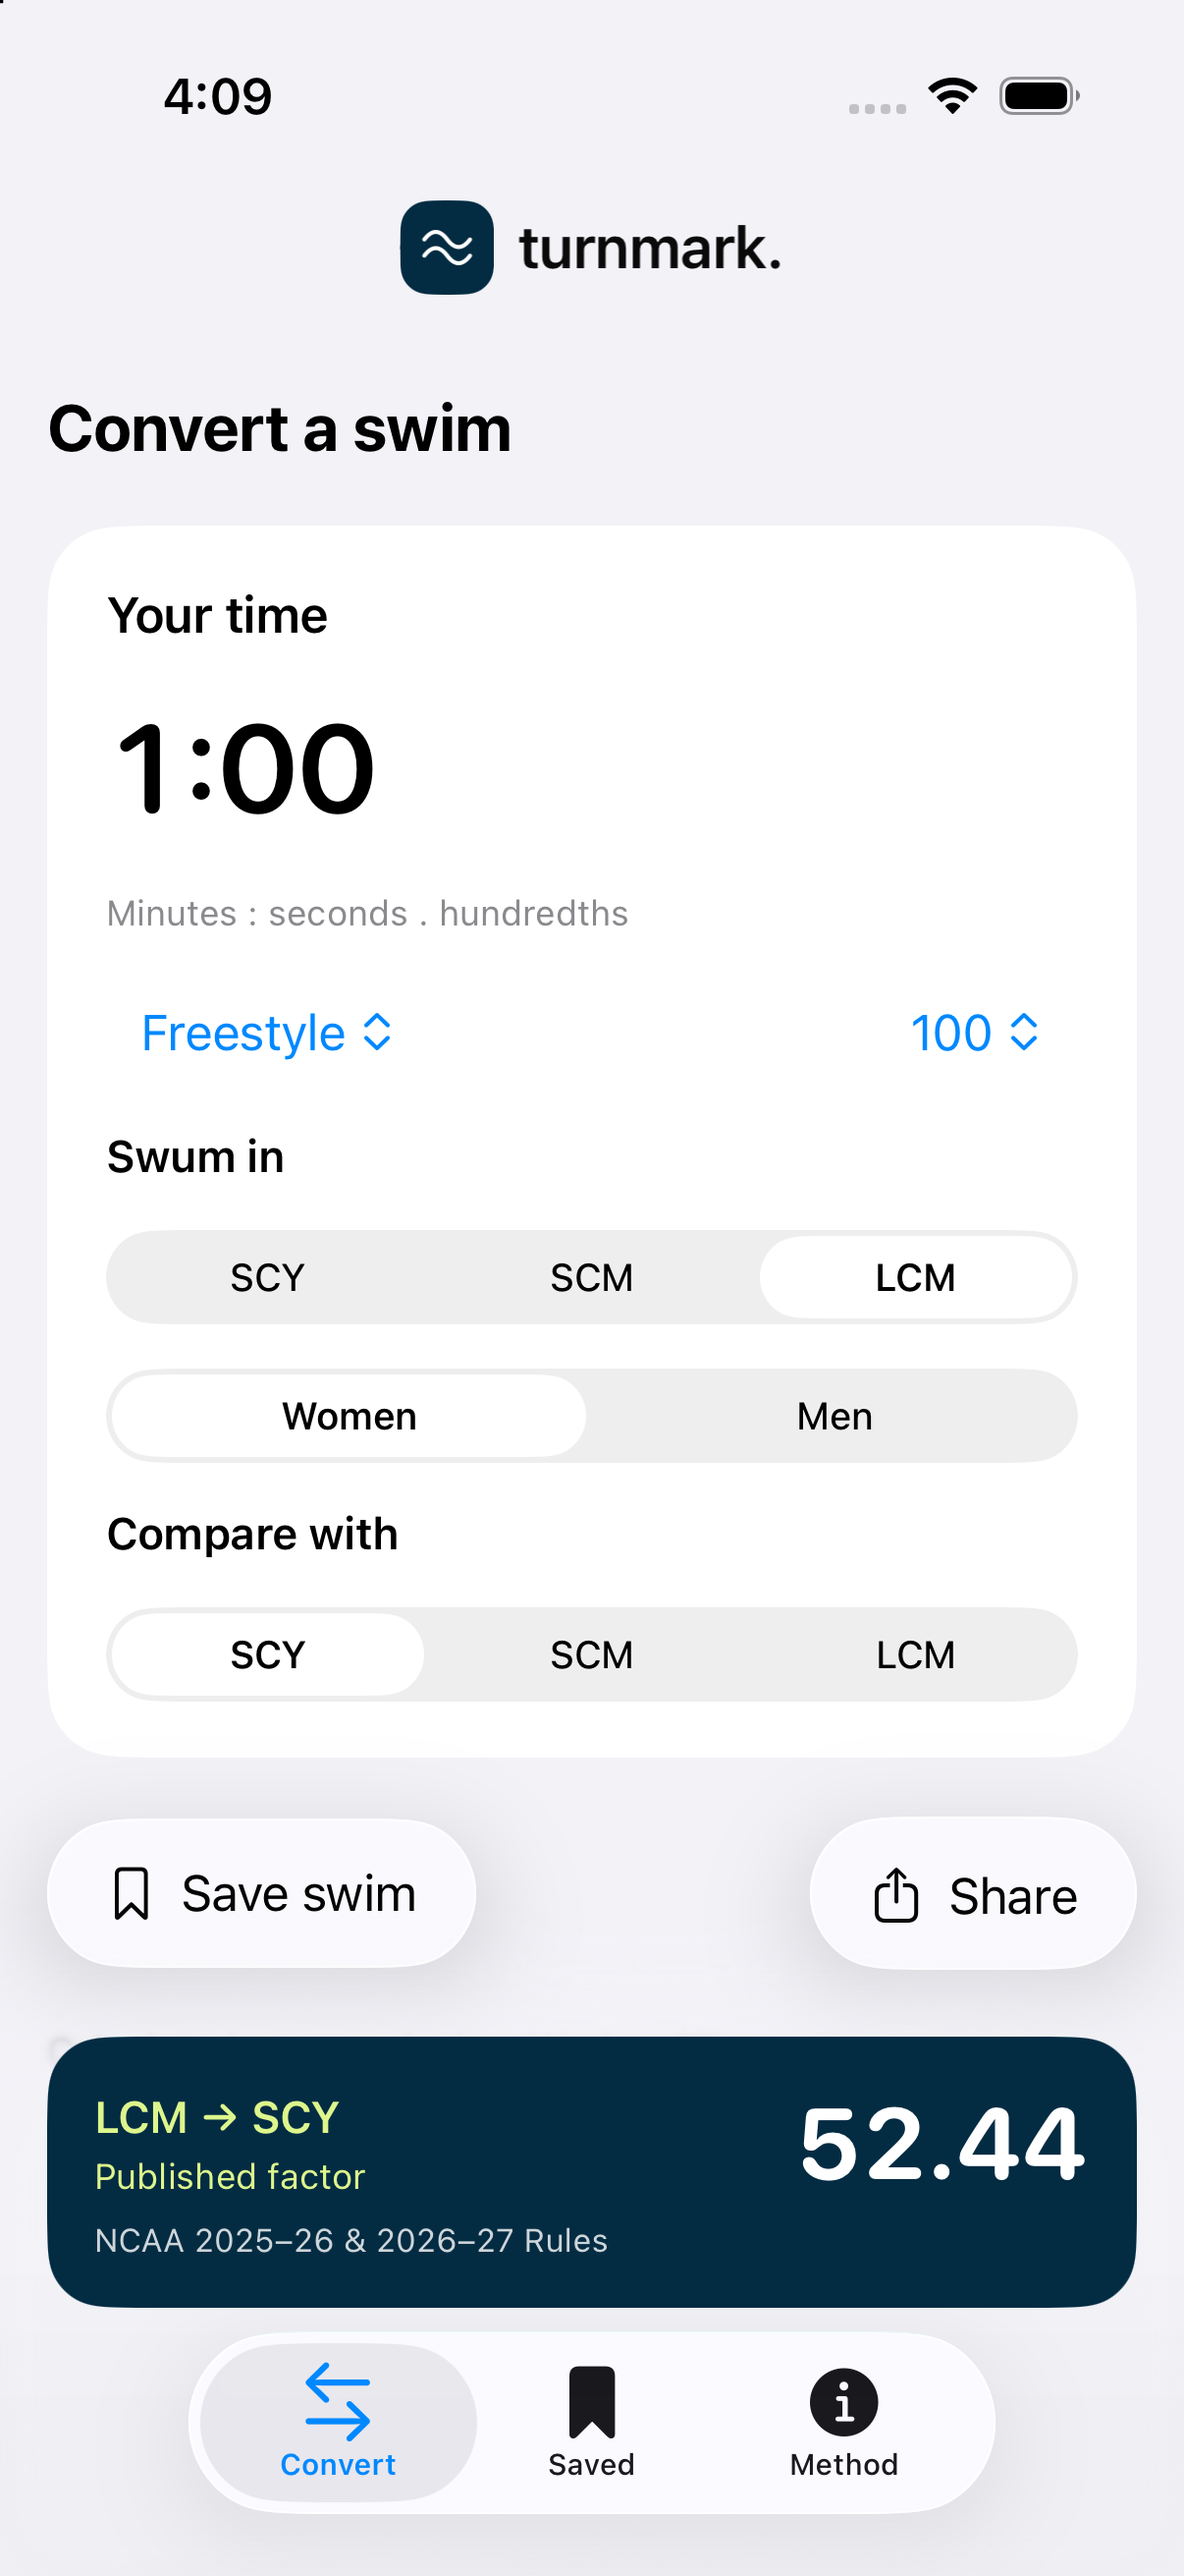
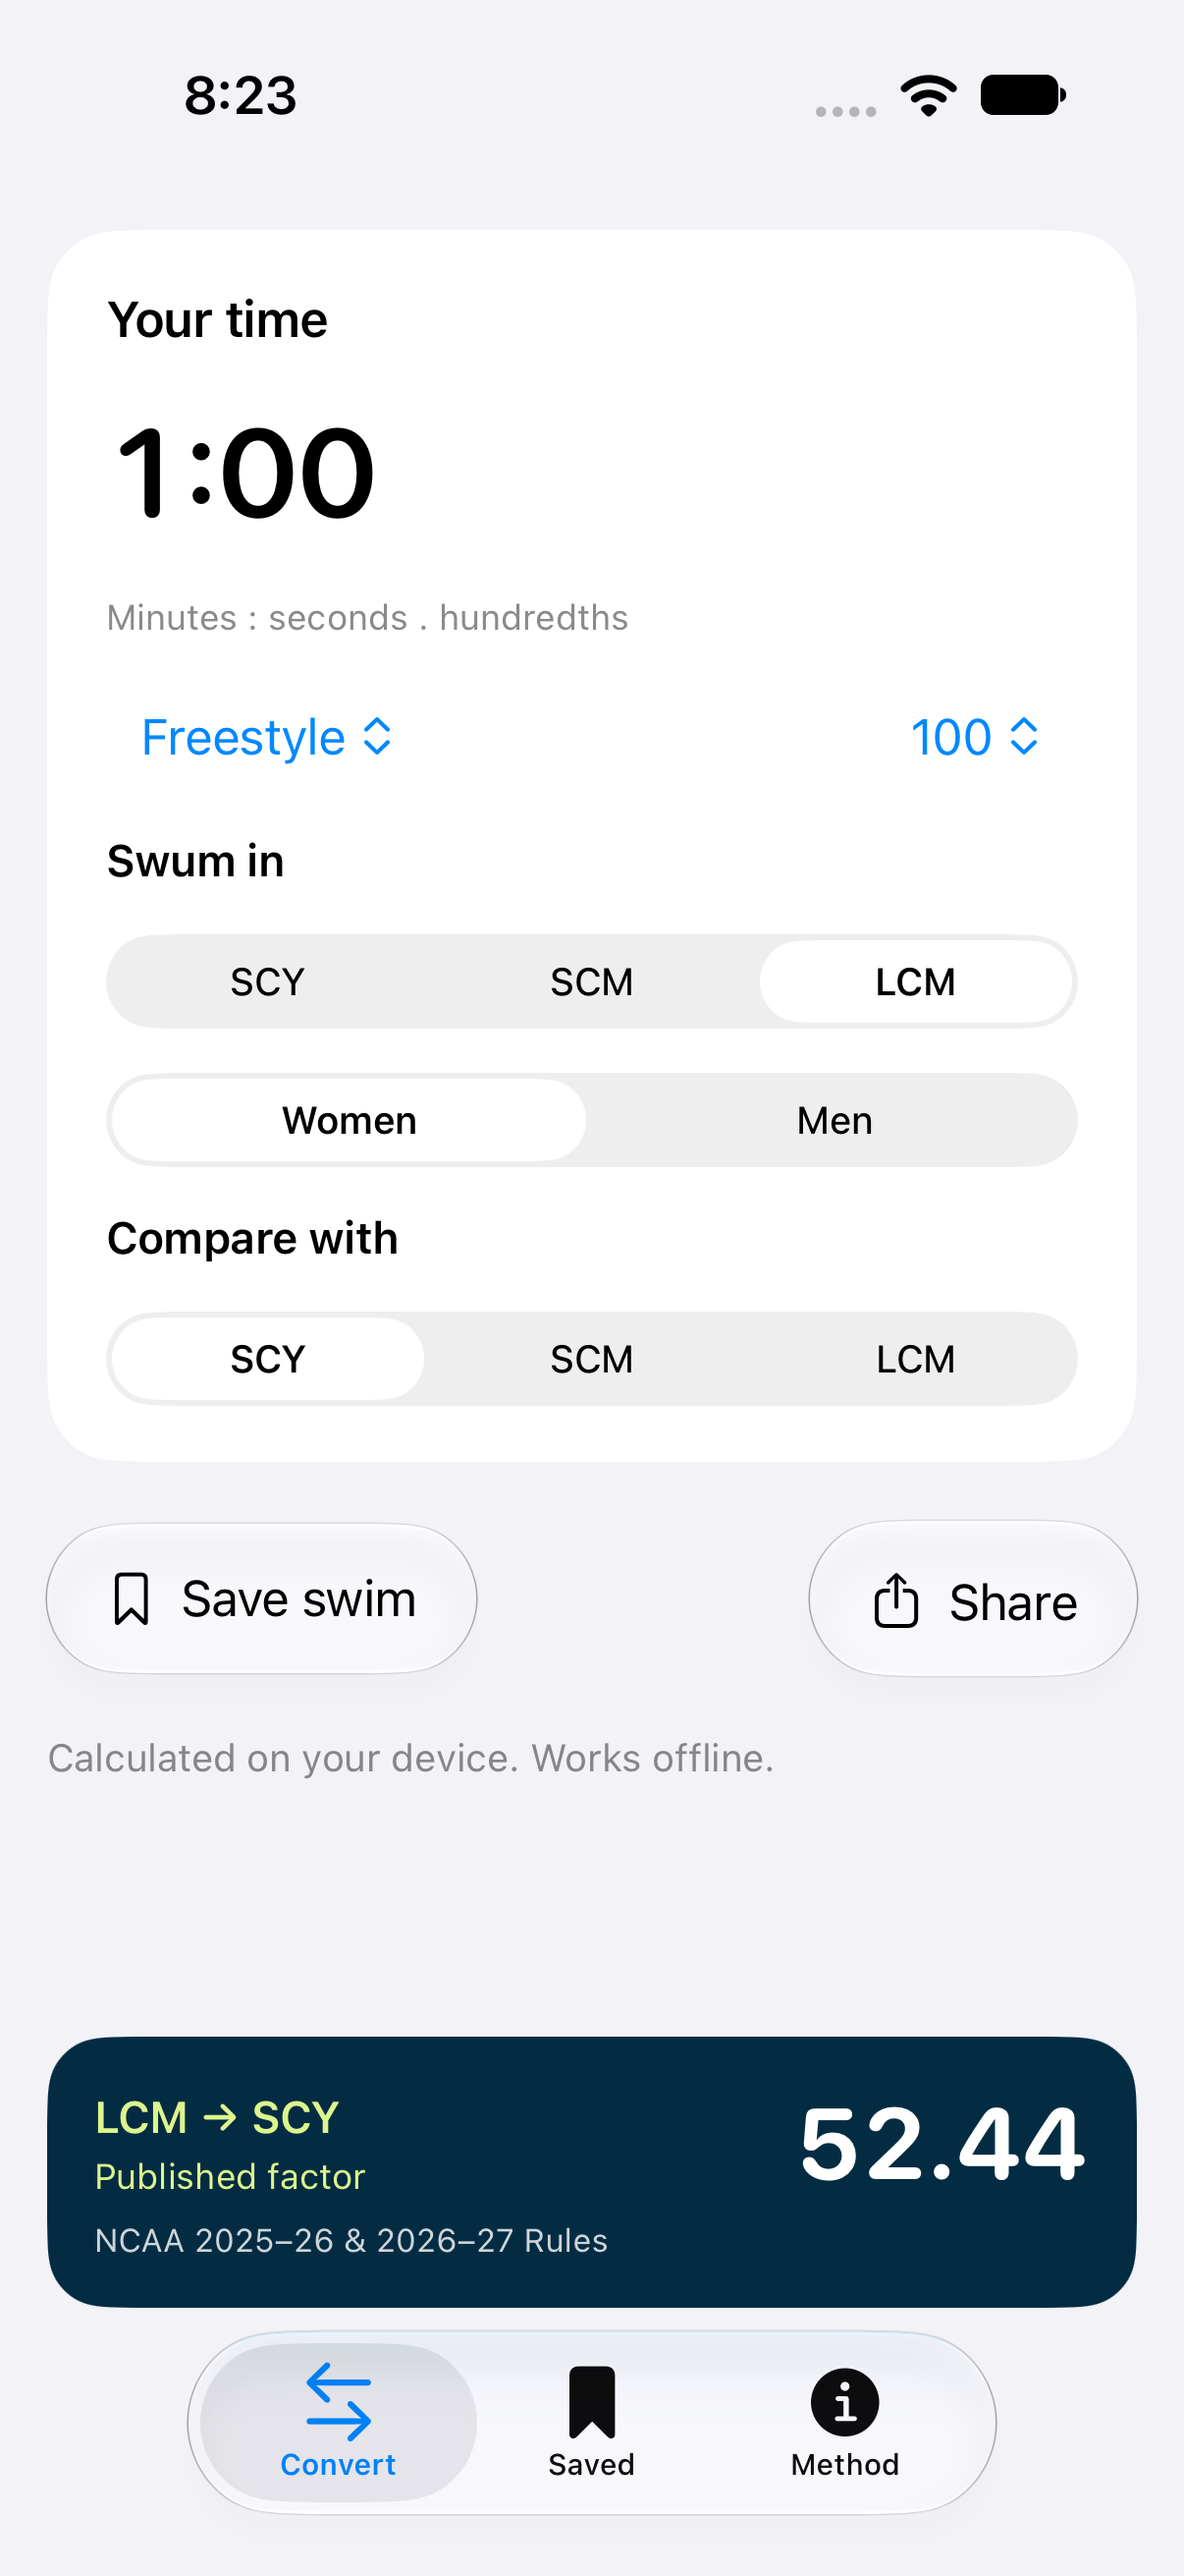
Open native converters directly into the swim inputs

diff --git a/apps/ios/Sources/TurnmarkApp.swift b/apps/ios/Sources/TurnmarkApp.swift
@@ -79,7 +79,6 @@ private struct TurnmarkView: View {
             NavigationStack {
                 ScrollView {
                     VStack(alignment: .leading, spacing: 20) {
-                        Text("Convert a swim").font(.title2.bold()).accessibilityAddTraits(.isHeader)
                         inputCard
                         HStack {
                             Button { savedJSON = draft.encoded } label: { Label("Save swim", systemImage: "bookmark") }
@@ -94,10 +93,8 @@ private struct TurnmarkView: View {
                 }
                 .modifier(ConversionResultBar(summary: resultSummary))
                 .background(Color(uiColor: .systemGroupedBackground))
-                .navigationTitle("turnmark.")
-                .navigationBarTitleDisplayMode(.inline)
+                .toolbar(.hidden, for: .navigationBar)
                 .toolbar {
-                    ToolbarItem(placement: .principal) { BrandHeader() }
                     if editingTime { ToolbarItemGroup(placement: .keyboard) { Spacer(); Button("Done") { editingTime = false } } }
                 }
             }.tabItem { Label("Convert", systemImage: "arrow.left.arrow.right") }.tag(0)
@@ -201,7 +198,6 @@ private struct TurnmarkView: View {
         VStack(alignment: .leading, spacing: 14) {
             HStack {
                 Text("\(courseNames[input.courseIndex]) → \(courseNames[input.targetIndex])").font(.subheadline.weight(.semibold))
-                Spacer(); Image("BrandMark").resizable().frame(width: 32, height: 32).clipShape(.rect(cornerRadius: 9)).accessibilityHidden(true)
             }.foregroundStyle(lime)
             switch input.outcome {
             case let .available(value, source):
@@ -235,17 +231,6 @@ private struct SwimActionsStyle: ViewModifier {
         } else {
             content.buttonStyle(.bordered).controlSize(.large)
         }
-    }
-}
-
-private struct BrandHeader: View {
-    var body: some View {
-        HStack(spacing: 8) {
-            Image("BrandMark").resizable().frame(width: 32, height: 32)
-                .clipShape(.rect(cornerRadius: 10)).accessibilityHidden(true)
-            // A wordmark stays at a fixed optical size inside the system bar.
-            Text("turnmark.").font(.system(size: 20, weight: .bold))
-        }.accessibilityElement(children: .combine).accessibilityLabel("Turnmark")
     }
 }
 

diff --git a/apps/android/src/main/java/net/stanback/turnmark/MainActivity.kt b/apps/android/src/main/java/net/stanback/turnmark/MainActivity.kt
@@ -19,7 +19,6 @@ import androidx.compose.material.icons.Icons
 import androidx.compose.material.icons.filled.*
 import androidx.compose.material3.*
 import androidx.compose.runtime.*
-import androidx.compose.ui.Alignment
 import androidx.compose.ui.Modifier
 import androidx.compose.ui.graphics.Color
 import androidx.compose.ui.platform.LocalContext
@@ -108,13 +107,11 @@ private fun share(context: Context, draft: Draft) {
         surface = Color(0xFF122C3C), background = Color(0xFF091F2D))
         else lightColorScheme(primary = Ink, secondaryContainer = Lime, onSecondaryContainer = Ink,
             background = Color(0xFFF0F5F8), surface = Color.White)) {
-        Scaffold(topBar = { TopAppBar(title = {
-            Row(verticalAlignment = Alignment.CenterVertically, horizontalArrangement = Arrangement.spacedBy(10.dp)) {
-                if (tab == 0) Icon(painterResource(R.drawable.brand_mark), contentDescription = null,
-                    tint = Color.Unspecified, modifier = Modifier.size(34.dp))
-                Text(if (tab == 0) "turnmark." else if (tab == 1) "Saved swim" else "The method", fontWeight = FontWeight.Bold)
-            }
-        }) },
+        Scaffold(topBar = {
+            if (tab != 0) TopAppBar(title = {
+                Text(if (tab == 1) "Saved swim" else "The method", fontWeight = FontWeight.Bold)
+            })
+        },
             bottomBar = {
               Column {
                 if (tab == 0) ResultSummary(draft)
@@ -134,7 +131,6 @@ private fun share(context: Context, draft: Draft) {
                 verticalArrangement = Arrangement.spacedBy(20.dp)) {
                 when (tab) {
                     0 -> {
-                        Text("Convert a swim", style = MaterialTheme.typography.headlineSmall, fontWeight = FontWeight.Bold)
                         Card(shape = RoundedCornerShape(24.dp), colors = CardDefaults.cardColors(containerColor = MaterialTheme.colorScheme.surface)) {
                             Column(Modifier.padding(20.dp), verticalArrangement = Arrangement.spacedBy(16.dp)) {
                                 Text("Your time", fontWeight = FontWeight.Bold)

diff --git a/docs/NATIVE_DESIGN_REVIEW.md b/docs/NATIVE_DESIGN_REVIEW.md
@@ -1,0 +1,70 @@
+# Native header and launch review
+
+Reviewed October 17, 2026 (U.S. charts).
+
+## Scope
+
+A snapshot of the first ten free iPhone apps on [Apple’s chart](https://apps.apple.com/us/iphone/charts/36?chart=top-free)
+and the first ten Android apps in [Applyra’s U.S. Google Play chart](https://www.applyra.io/tools/top-charts/google-play/us/overall/free).
+Google Play’s public top-chart endpoint was unavailable to the research client,
+so the Android ranking is explicitly a third-party snapshot. The app images
+reviewed come from the linked official store listings. Rankings can change even
+between requests; they are sampling inputs, not design-quality scores.
+
+This reviews published store screenshots, not installed-app sessions or measured
+cold starts. Marketing headlines outside device frames are not app headers.
+Additional iPhone images were inspected for Vinted, PineDrama and Kalshi because
+their first panels mostly advertise the product. No inference about launch-screen
+behavior is made from these store images.
+
+## iPhone snapshot
+
+| Position | Official listing                                                                                        | Observation in the reviewed view                                         |
+| -------- | ------------------------------------------------------------------------------------------------------- | ------------------------------------------------------------------------ |
+| 1        | [KICK - Live Streaming](https://apps.apple.com/us/app/kick-live-streaming/id6446202561)                 | Small wordmark above a content feed.                                     |
+| 2        | [Muse from Meta](https://apps.apple.com/us/app/muse-from-meta/id6760173601)                             | Agent avatar/name identifies the current conversation.                   |
+| 3        | [Vinted: Pre-loved marketplace](https://apps.apple.com/us/app/vinted-pre-loved-marketplace/id632064380) | The selling workflow uses a task title, not the app name (second image). |
+| 4        | [ChatGPT](https://apps.apple.com/us/app/chatgpt/id6448311069)                                           | Conversation, controls and composer lead; no large app-name heading.     |
+| 5        | [TikTok Pro - Events](https://apps.apple.com/us/app/tiktok-pro-events/id6741796873)                     | Feed/category navigation and media lead.                                 |
+| 6        | [McDonald's](https://apps.apple.com/us/app/mcdonalds/id922103212)                                       | Compact brand/rewards identity; most space goes to account and offers.   |
+| 7        | [PineDrama - Short Dramas](https://apps.apple.com/us/app/pinedrama-short-dramas/id6754134922)           | Video fills the task view without a brand header (second image).         |
+| 8        | [Kalshi: Trade Football & more](https://apps.apple.com/us/app/kalshi-trade-football-more/id1632713844)  | Small wordmark above market content (second image).                      |
+| 9        | [Threads](https://apps.apple.com/us/app/threads/id6446901002)                                           | Compact symbol above the feed.                                           |
+| 10       | [CapCut: Photo & Video Editor](https://apps.apple.com/us/app/capcut-photo-video-editor/id1500855883)    | Content categories and editing/navigation tools lead.                    |
+
+## Android snapshot
+
+| Position | Official listing                                                                                         | Observation in the reviewed view                                         |
+| -------- | -------------------------------------------------------------------------------------------------------- | ------------------------------------------------------------------------ |
+| 1        | [Muse from Meta](https://play.google.com/store/apps/details?id=com.facebook.aura&gl=us)                  | Agent avatar/name above a conversation.                                  |
+| 2        | [ChatGPT](https://play.google.com/store/apps/details?id=com.openai.chatgpt&gl=us)                        | Conversation and composer lead.                                          |
+| 3        | [Settings Home](https://play.google.com/store/apps/details?id=com.eet.settings.launcher&gl=us)           | Dashboard/search and device controls lead.                               |
+| 4        | [TikTok Pro - Events](https://play.google.com/store/apps/details?id=com.ss.android.ugc.tiktok.pro&gl=us) | Shopping search, navigation and offers lead.                             |
+| 5        | [WhatsApp Messenger](https://play.google.com/store/apps/details?id=com.whatsapp&gl=us)                   | Compact app-name header above chats.                                     |
+| 6        | [TikTok](https://play.google.com/store/apps/details?id=com.zhiliaoapp.musically&gl=us)                   | Feed/category navigation over full-screen media.                         |
+| 7        | [GPS Location Tracker Ultra](https://play.google.com/store/apps/details?id=com.locc.trak.ult&gl=us)      | Map/task view retains an identifying title.                              |
+| 8        | [Vinted](https://play.google.com/store/apps/details?id=fr.vinted&gl=us)                                  | First panel is promotional; no in-app header conclusion from that panel. |
+| 9        | [DealSeek](https://play.google.com/store/apps/details?id=com.dealseekorg.dealseek&gl=us)                 | First panel is promotional; no in-app header conclusion from that panel. |
+| 10       | [McDonald’s](https://play.google.com/store/apps/details?id=com.mcdonalds.app&gl=us)                      | Location selection uses a functional header above the map.               |
+
+## Turnmark decision
+
+The sample is mixed: some feeds retain a small wordmark, some use an icon, and
+focused workflows often show actions or task context. It does not establish a
+rule that successful apps omit branding. For Turnmark’s short calculation flow,
+the input labels and selected bottom tab already explain the screen. Removing
+the logo/name bar and “Convert a swim” heading puts the time field first and
+makes room for Save/Share. Saved and Method keep useful page titles. The saved
+result card also drops its decorative wave.
+
+The launcher icon keeps the shared wave identity. Android 12+ uses that icon in
+its system splash, with a background matching the app’s light/dark appearance.
+There is no extra splash activity, timer or loading animation. On iOS, a launch
+background matching the first screen leads straight into the converter, without
+an additional logo screen.
+
+This follows [Apple’s launch guidance](https://developer.apple.com/design/human-interface-guidelines/launching),
+which favors immediate interaction, matching the first screen and avoiding
+standalone launch branding, and [Android’s splash-screen guidance](https://developer.android.com/develop/ui/views/launch/splash-screen),
+which provides the launcher-icon splash and dismisses it when the first frame is
+ready. System Liquid Glass navigation and action buttons stay in use on iOS.

diff --git a/docs/BRANDING.md b/docs/BRANDING.md
@@ -1,9 +1,16 @@
 # Turnmark mark
 
 The two-wave mark in `public/icons/app-icon.svg` is shared by the website and
-native apps. The native headers pair it with the system-font `turnmark.`
-wordmark. The navy field and white waves remain legible at launcher-icon sizes;
-the platforms supply their own icon masks.
+native app icons. The navy field and white waves remain legible at launcher-icon
+sizes; the platforms supply their own icon masks. The native converter opens
+straight into its inputs, without a logo, app-name header or promotional title.
+Saved and Method retain functional page titles.
+
+On Android 12+, the system splash shows the launcher mark against a background
+that matches the app's appearance. iOS uses a matching light/dark launch background
+and opens directly into the form. Neither platform adds a timed splash or spinner.
+See [the design review](NATIVE_DESIGN_REVIEW.md) for the store comparisons and
+platform guidance behind this choice.
 
 After editing the canonical SVG, regenerate the native assets:
 
@@ -12,9 +19,8 @@ After editing the canonical SVG, regenerate the native assets:
 node scripts/generate-brand-assets.mjs
 ```
 
-The exporter writes the iOS vector header asset and opaque 1024px app icon,
-Android vector header mark, adaptive launcher foreground/background, and Android
-13+ monochrome icon. Commit those generated resources. Ordinary native builds
+The exporter writes the opaque 1024px iOS app icon, Android adaptive launcher
+foreground/background, and Android 13+ monochrome icon. Commit those generated resources. Ordinary native builds
 do not need Node or a browser to produce their icons.
 
 The iOS icon is a flat asset-catalog icon for now. Layered Icon Composer artwork

diff --git a/docs/NATIVE_APPS.md b/docs/NATIVE_APPS.md
@@ -15,8 +15,9 @@ offline on first launch, and use the same source editions and outcomes.
   sharing. Share links still open the existing GitHub Pages app. The
   `turnmark.app` website migration is a separate PR.
 - Convert, Saved and Method screens, system appearance, scalable native text
-  and native accessibility semantics. The shared wave mark appears in app headers
-  and launcher icons; see [brand asset generation](BRANDING.md).
+  and native accessibility semantics. The converter opens directly into inputs,
+  without an app-name banner or page heading. Shared wave launcher icons and
+  platform launch behavior are described in [brand asset generation](BRANDING.md).
 - iOS uses system Liquid Glass navigation, pickers and glass Save/Share buttons
   on iOS 26+. Input and result cards retain opaque, readable surfaces. Older
   supported versions use standard bordered buttons.
@@ -85,7 +86,9 @@ Cloudflare, Apple signing or store-upload credentials. The iOS job uses the
 `xcode-27` runner, pins Xcode 27.1 and verifies SDK 27.1 before building. Simulator
 selection prefers the latest installed iOS runtime; CI requires iOS 27. Local
 visual checks can also run on older supported runtimes. Test artifacts expire
-after seven days. The existing website deployment remains a main-branch-only
+after seven days. Jobs are capped at 15 minutes for core/web, 30 minutes for iOS
+and 20 minutes for Android, so a stalled toolchain cannot occupy a runner for the
+default six hours. The existing website deployment remains a main-branch-only
 job with its own permissions; do not use `pull_request_target` to execute PR code.
 
 When releases are added, put signed builds and TestFlight/Play uploads in a
